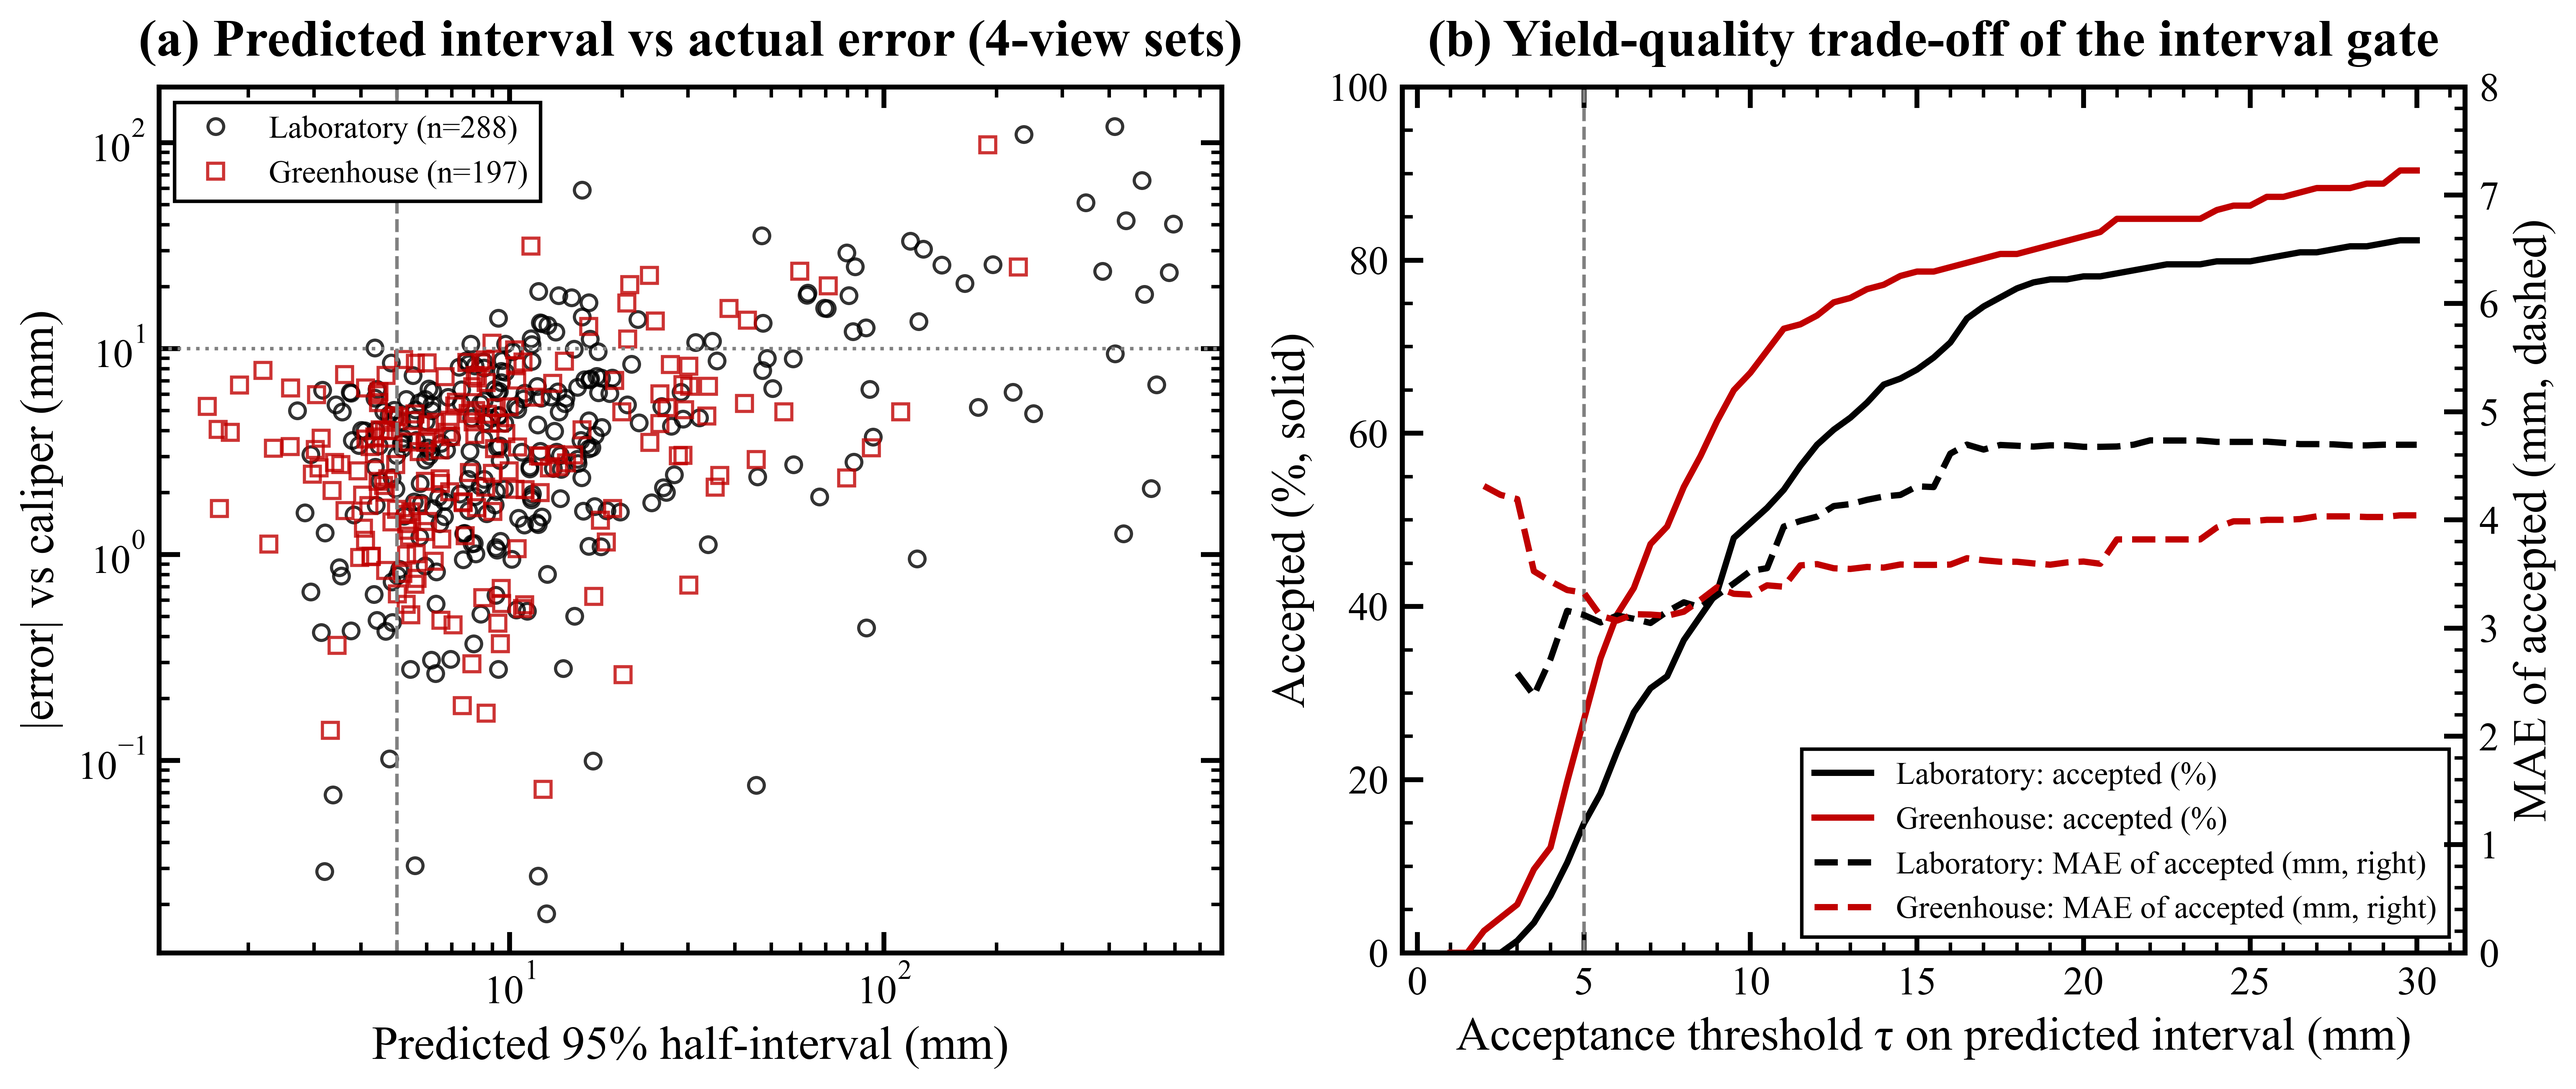
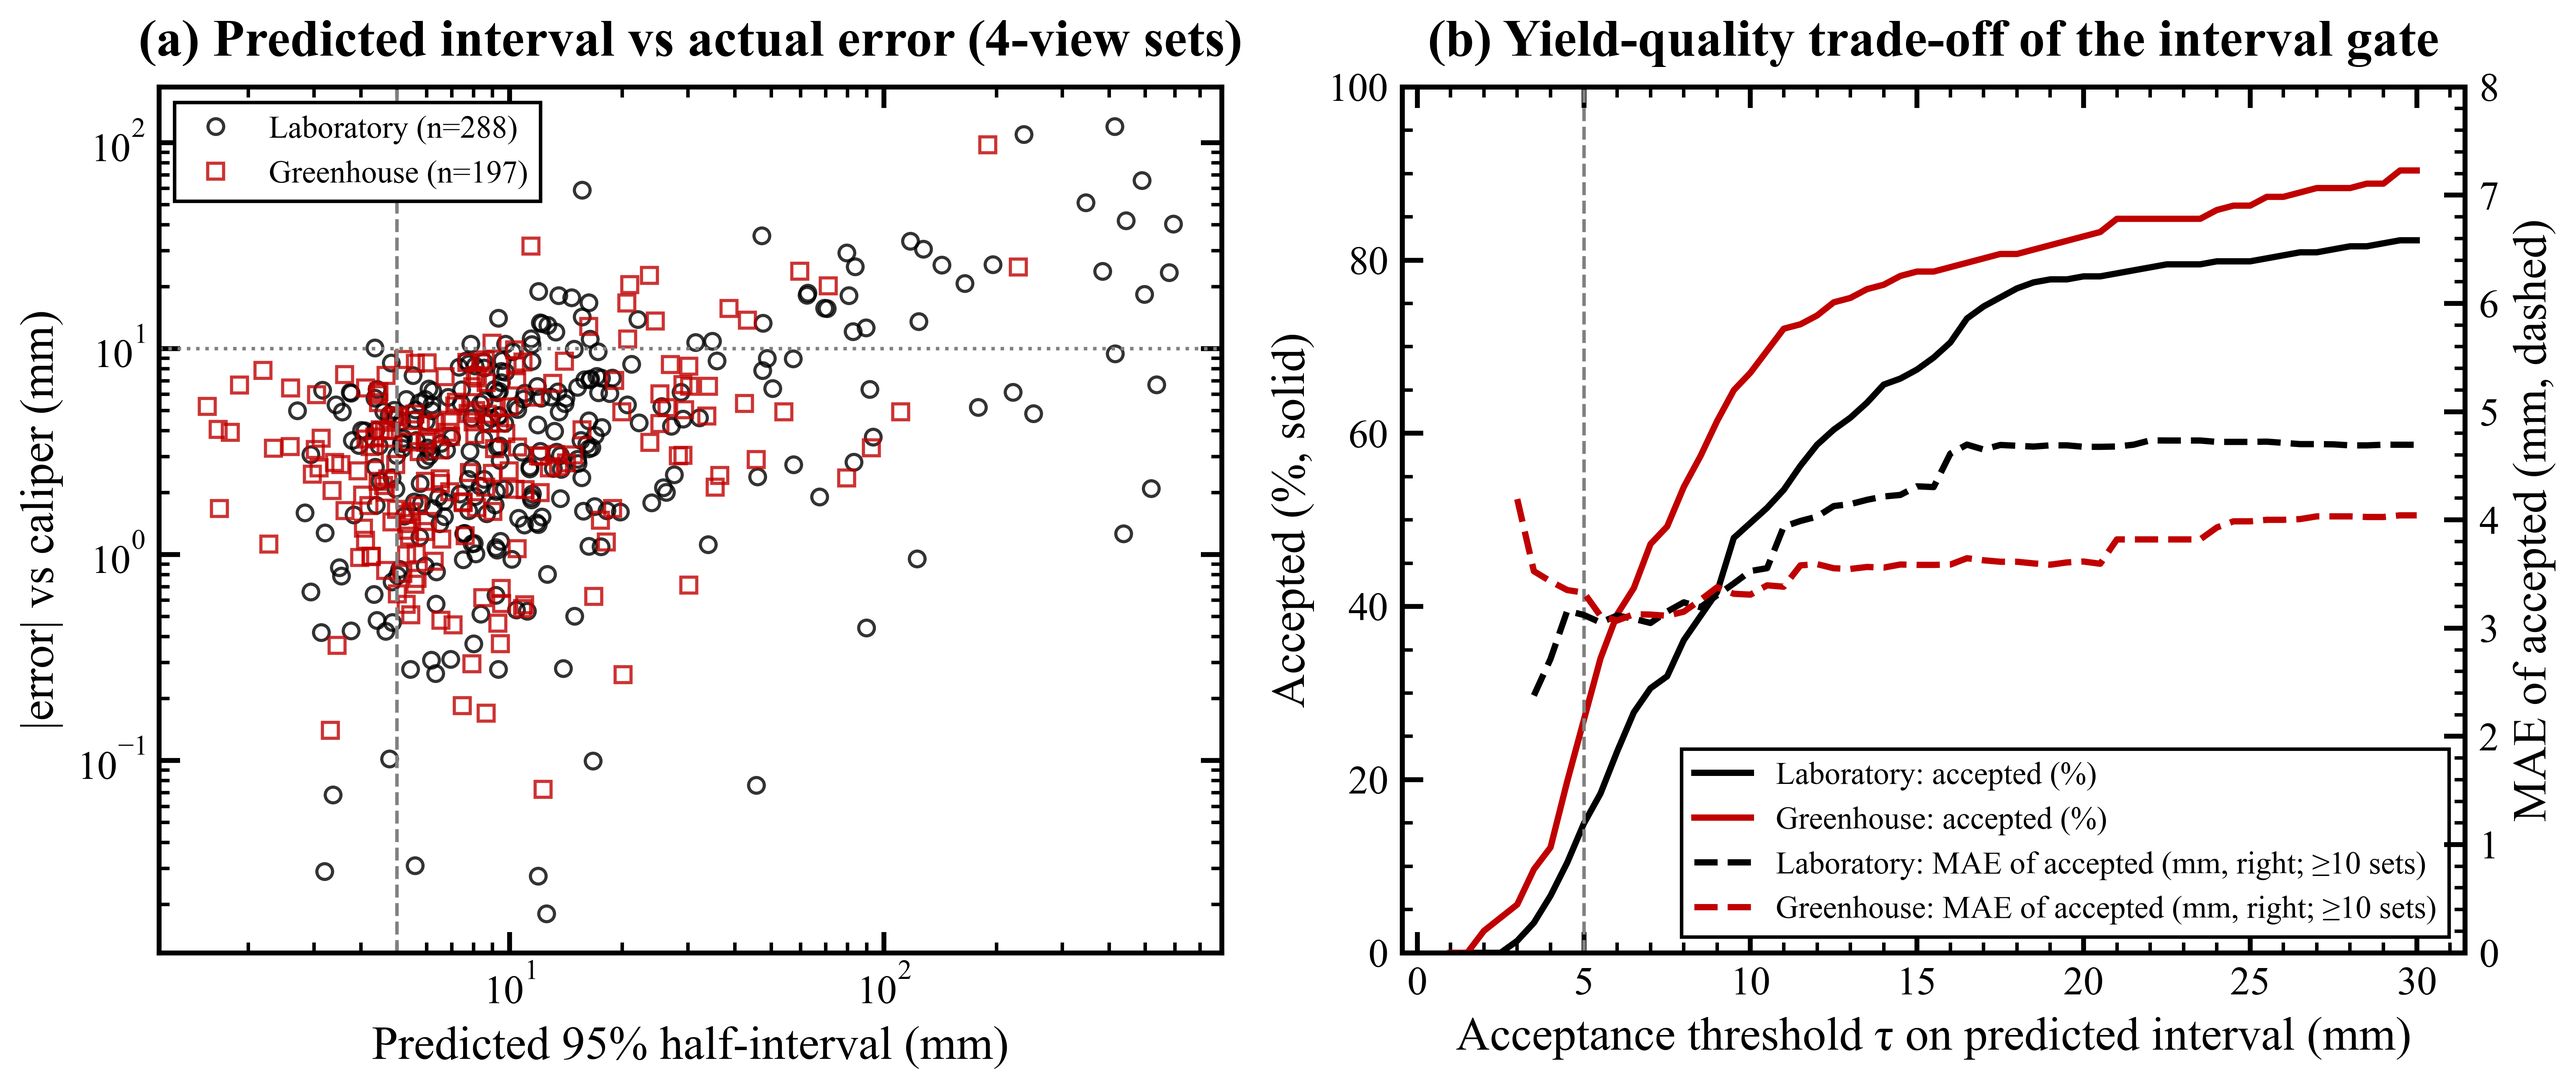
Fig C(b): draw MAE of accepted only where >=10 sets are accepted

Changed region(s): [[0.6554, 0.6849, 0.9363, 0.8716]]

diff --git a/msa_analysis.py b/msa_analysis.py
@@ -293,7 +293,8 @@ def block_c(rows):
         acc, mae, esc = [], [], []
         for t in taus:
             m = ci <= t
-            acc.append(100 * m.mean()); mae.append(float(ae[m].mean()) if m.any() else np.nan)
+            # MAE only where at least 10 sets are accepted; below that the curve is noise
+            acc.append(100 * m.mean()); mae.append(float(ae[m].mean()) if m.sum() >= 10 else np.nan)
             esc.append(100 * float(np.mean(ae[m] > 10)) if m.any() else np.nan)   # escapes: accepted but >10 mm off
         res[coh] = dict(n=len(sub), taus=taus.tolist(), accepted_pct=acc, mae_accepted=mae, escape_pct_gt10=esc,
                         spearman_ci_abserr=float(sps.spearmanr(ci, ae).correlation) if sps else float("nan"),
@@ -303,7 +304,7 @@ def block_c(rows):
         ax[0].plot(ci, ae, linestyle="none", marker=st["marker"], markerfacecolor="none",
                    markeredgecolor=st["color"], markersize=4.5, alpha=0.8, label=f"{coh} (n={len(sub)})")
         ax[1].plot(taus, acc, color=st["color"], lw=1.8, label=f"{coh}: accepted (%)")
-        ax1r.plot(taus, mae, color=st["color"], lw=1.8, ls="--", label=f"{coh}: MAE of accepted (mm, right)")
+        ax1r.plot(taus, mae, color=st["color"], lw=1.8, ls="--", label=f"{coh}: MAE of accepted (mm, right; ≥10 sets)")
     ax[0].set_xscale("log"); ax[0].set_yscale("log")
     ax[0].axvline(TAU, color="grey", lw=1, ls="--"); ax[0].axhline(10, color="grey", lw=1, ls=":")
     ax[0].set_xlabel("Predicted 95% half-interval (mm)"); ax[0].set_ylabel("|error| vs caliper (mm)")
